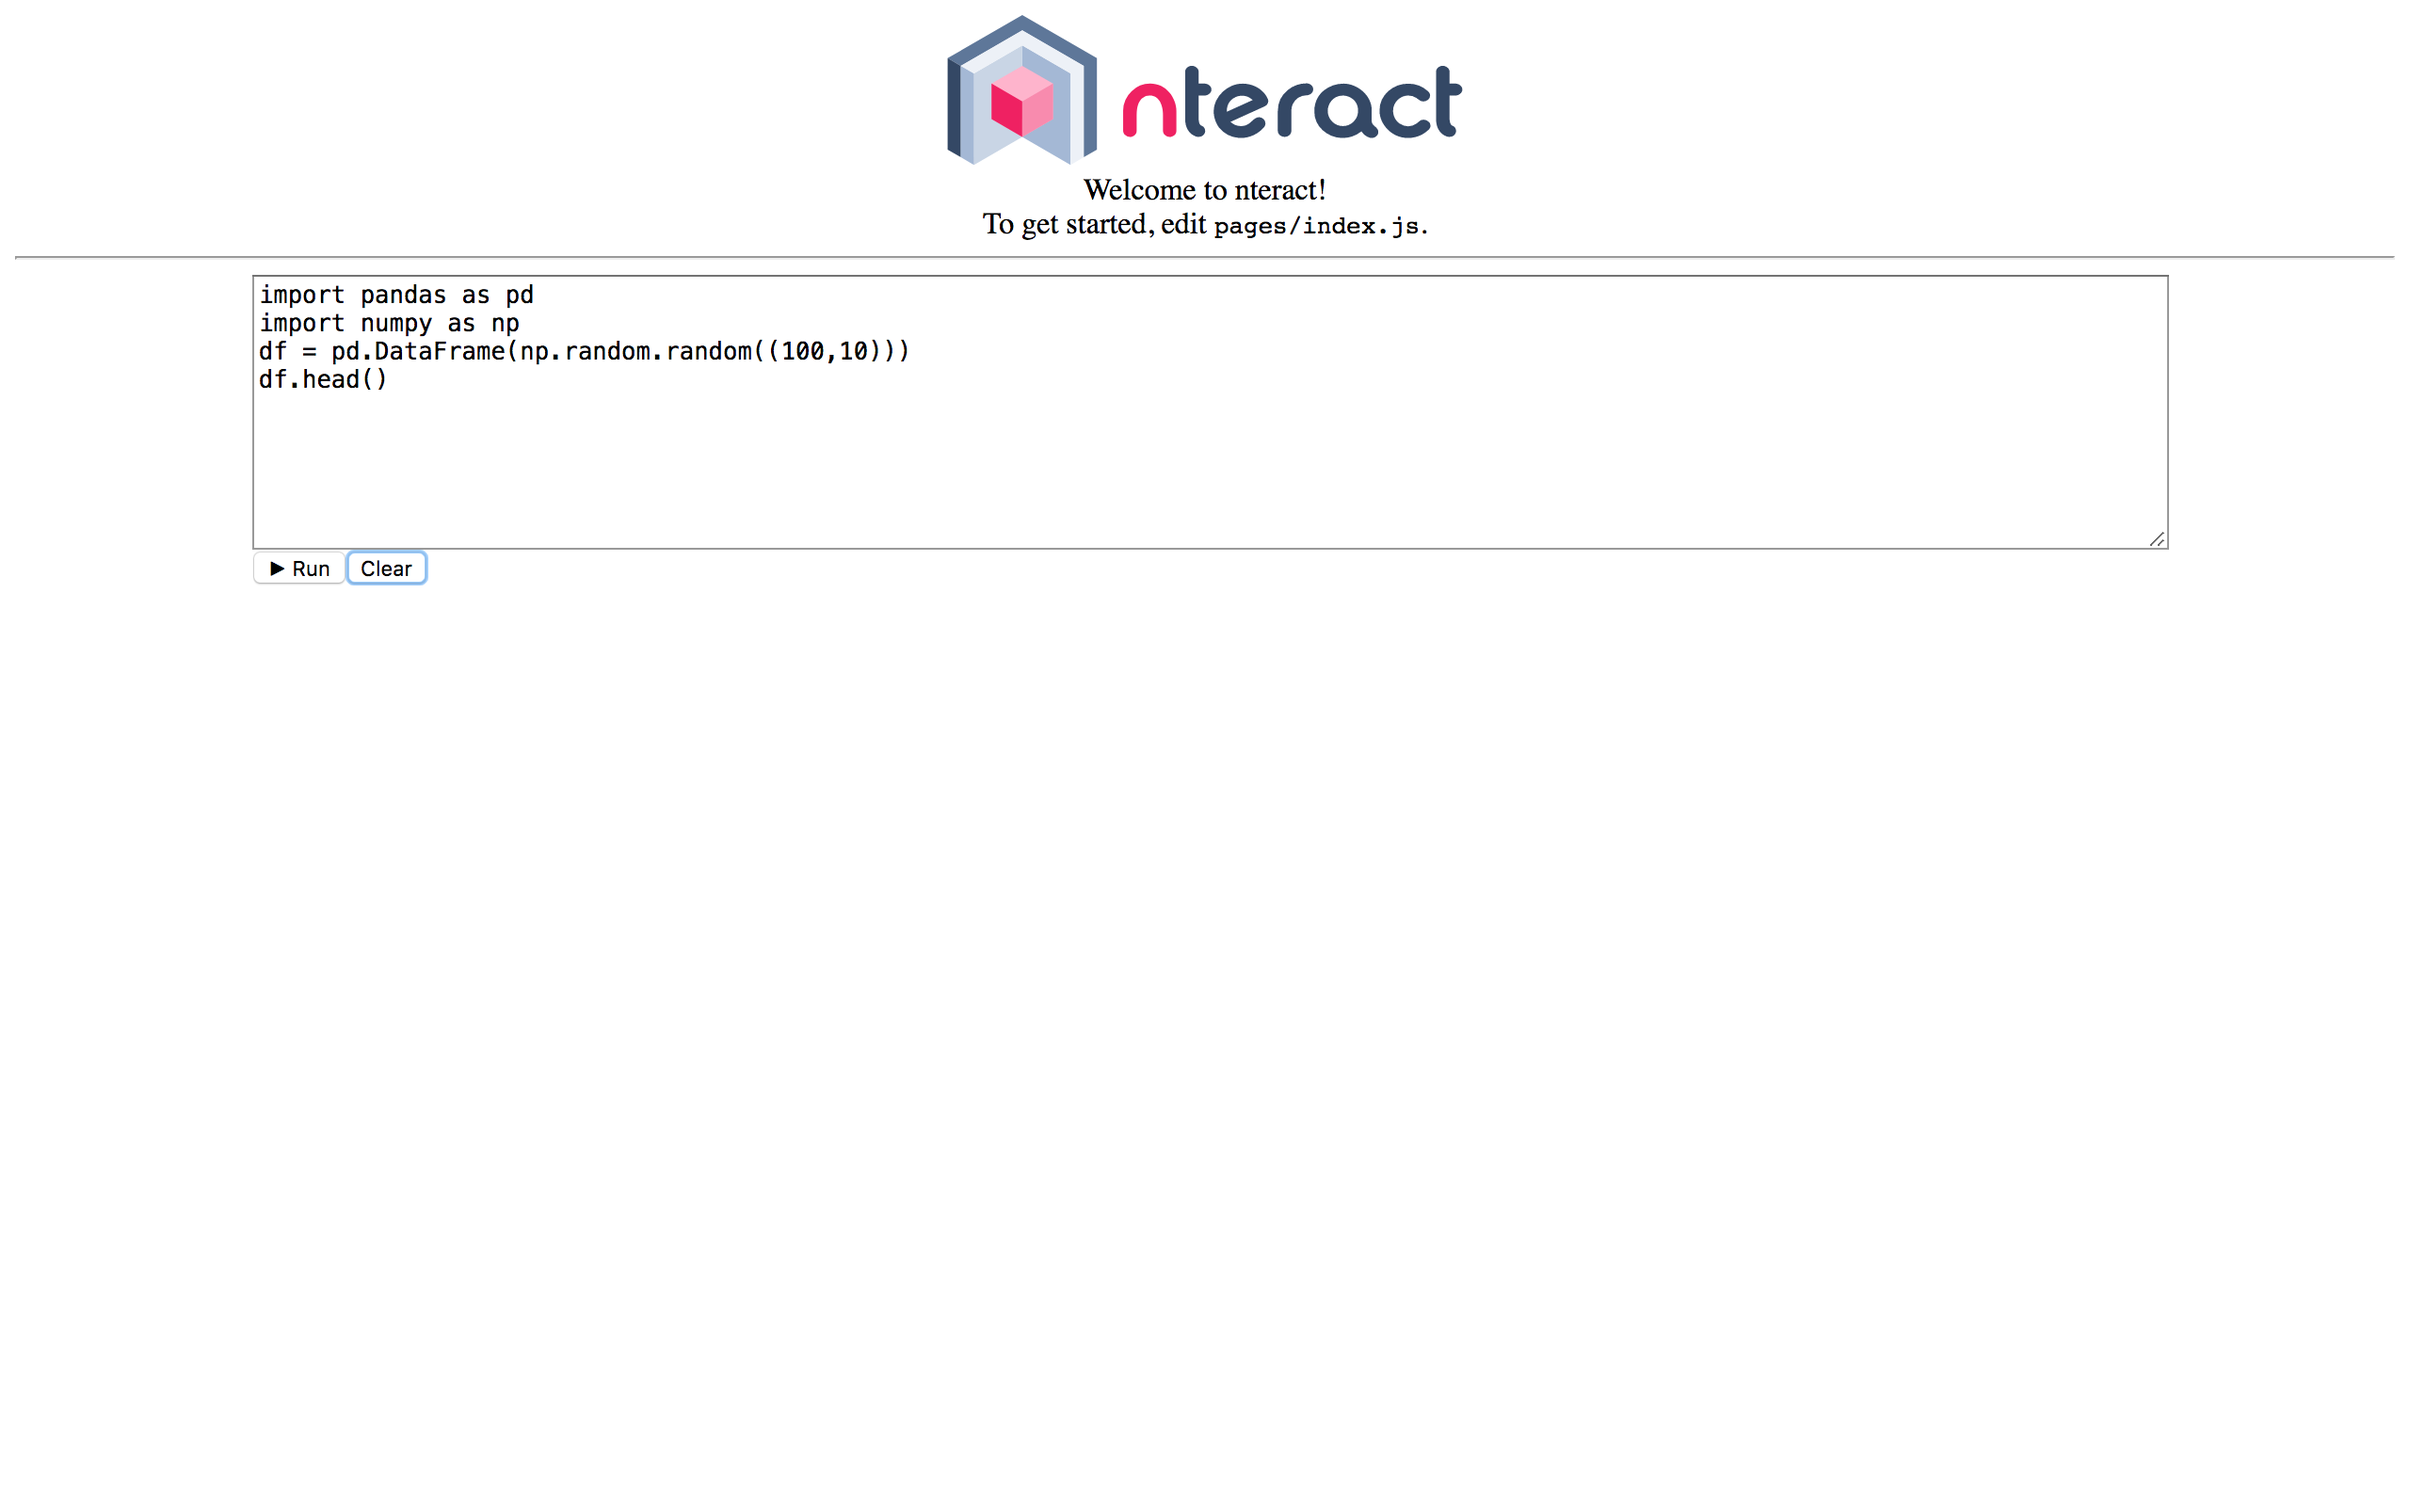
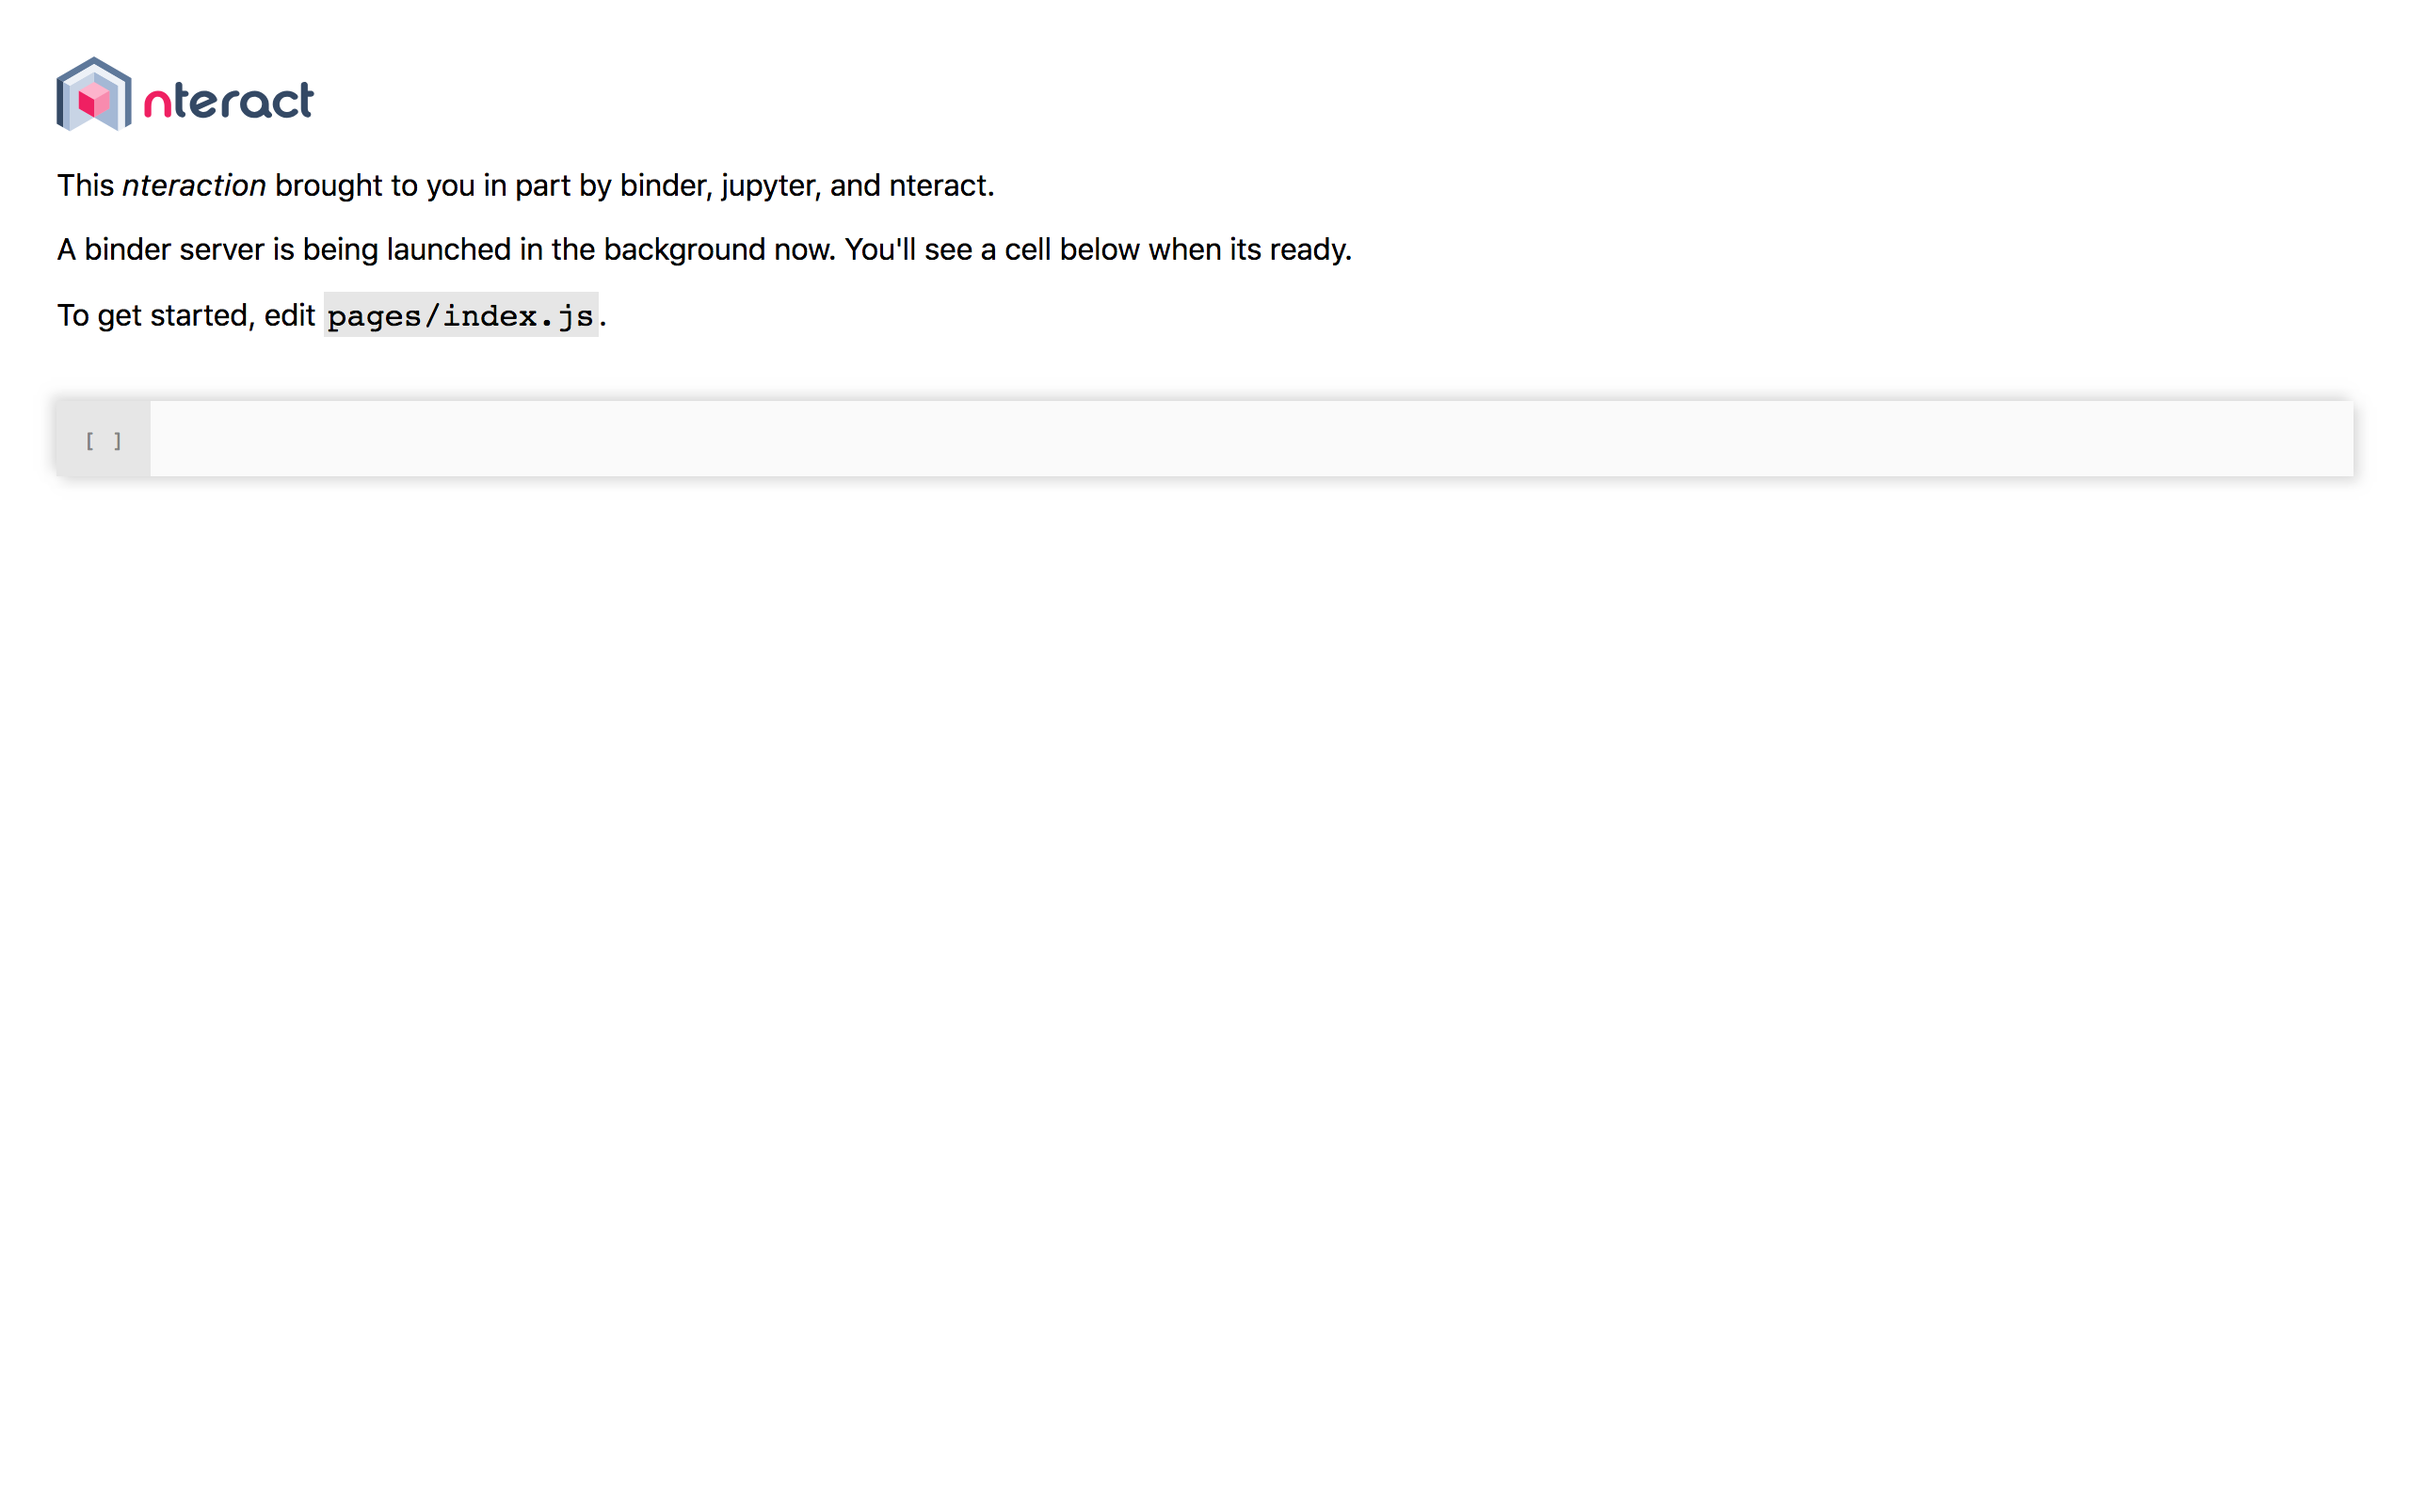
adding ci badge, new screenshot

diff --git a/README.md b/README.md
@@ -1,17 +1,25 @@
 # create-nteract-app
 
+[![CircleCI](https://circleci.com/gh/nteract/create-nteract-app/tree/master.svg?style=svg)](https://circleci.com/gh/nteract/create-nteract-app/tree/master)
+
 ## Installation
+
 Install `create-nteract-app` globally
+
 ```bash
 npm i -g create-nteract-app
 ```
+
 ## Usage
+
 Create an nteract app and run the development server.
+
 ```bash
 create-nteract-app yourApp
 cd yourApp
 yarn dev
 ```
+
 Now, navigate to [here](http://localhost:3000/) and you should see the following:
 
 ![](Screenshot.png)
